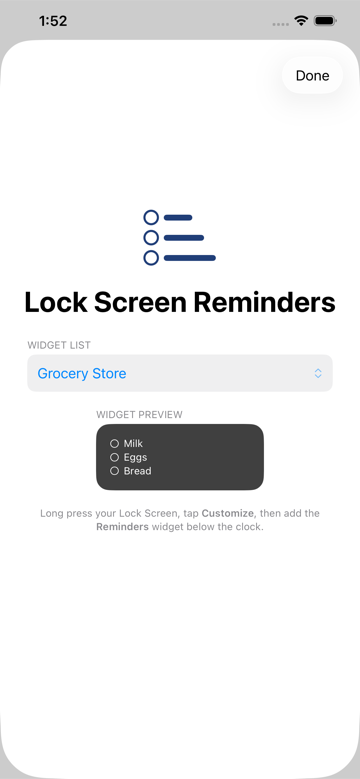
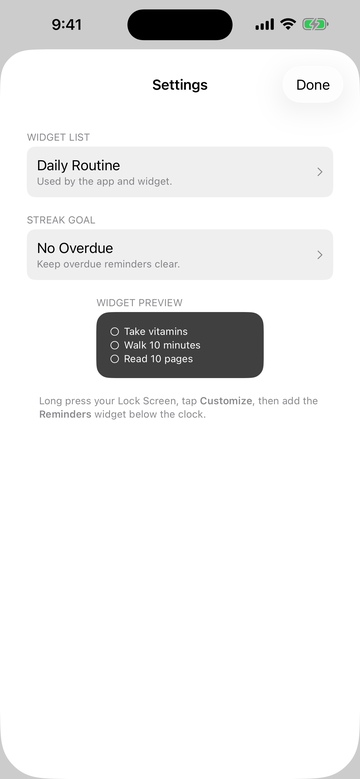
Update settings screen and screenshots

diff --git a/RemindersWidget/ReminderDetailView.swift b/RemindersWidget/ReminderDetailView.swift
@@ -40,7 +40,7 @@ struct ReminderDetailView: View {
         .onChange(of: streakState.mode) { _, _ in
             // Goal change in settings resets streak state in the store; re-evaluate against
             // the current list contents so the banner doesn't show a stale 0-day streak when
-            // the new mode trivially qualifies today (e.g. switched to Empty List on an
+            // the new mode trivially qualifies today (e.g. switched to Complete All on an
             // already-empty list).
             fetchReminders()
         }
@@ -111,7 +111,7 @@ struct ReminderDetailView: View {
         switch streakState.mode {
         case .noOverdue:
             // Today already implies "due today or overdue", so "all overdue" reads as redundant
-            // there. Phrase it the same as Empty List for the Today list.
+            // there. Phrase it the same as Complete All for the Today list.
             if listID == SelectedListStore.todayID {
                 return "Complete all reminders today."
             }

diff --git a/Shared/Streak.swift b/Shared/Streak.swift
@@ -14,7 +14,7 @@ enum StreakMode: String, CaseIterable, Identifiable {
         case .dailyProgress:
             return "Daily Progress"
         case .emptyList:
-            return "Empty List"
+            return "Complete All"
         }
     }
 
@@ -30,7 +30,7 @@ enum StreakMode: String, CaseIterable, Identifiable {
     }
 
     // The Today list is a synthetic cross-calendar view: list membership is implicit and
-    // can't be reconstructed for past days. The Daily Progress and Empty List modes both
+    // can't be reconstructed for past days. The Daily Progress and Complete All modes both
     // depend on per-day membership, so they're disabled for Today. No Overdue only depends
     // on each reminder's dueDate vs day boundary, which is well-defined cross-calendar.
     static func availableModes(forListID listID: String?) -> [StreakMode] {

diff --git a/RemindersWidget/ContentView.swift b/RemindersWidget/ContentView.swift
@@ -110,14 +110,6 @@ struct ContentView: View {
     private var settingsSheet: some View {
         NavigationStack {
             VStack(spacing: 24) {
-                Spacer()
-
-                ReminderListIcon()
-
-                Text("Lock Screen Reminders")
-                    .font(.largeTitle)
-                    .fontWeight(.bold)
-
                 Group {
                     switch authStatus {
                     case .fullAccess:
@@ -132,8 +124,10 @@ struct ContentView: View {
                 .padding(.horizontal, 32)
 
                 Spacer()
-                Spacer()
             }
+            .padding(.top, 24)
+            .navigationTitle("Settings")
+            .navigationBarTitleDisplayMode(.inline)
             .toolbar {
                 ToolbarItem(placement: .topBarTrailing) {
                     Button("Done") {

diff --git a/docs/SCREENSHOTS.md b/docs/SCREENSHOTS.md
@@ -1,0 +1,186 @@
+# Screenshot Workflow
+
+Use this when refreshing the screenshots in `docs/`. The full-size screenshots should come from Simulator captures, and the thumbnail files should be generated from those full-size PNGs.
+
+## Screenshot Set
+
+| File | What it shows |
+| --- | --- |
+| `screenshot-lock-screen-6.5.png` | iPhone Lock Screen with the widget |
+| `screenshot-list-view-6.5.png` | iPhone app list view |
+| `screenshot-list-selection-6.5.png` | iPhone settings sheet |
+| `screenshot-lock-screen-ipad-13.png` | iPad Lock Screen with the widget |
+| `screenshot-list-view-ipad-13.png` | iPad app list view |
+| `screenshot-list-selection-ipad-13.png` | iPad settings sheet |
+| `screenshot-*-thumb.png` | Website thumbnails generated from the iPhone full-size screenshots |
+
+The `6.5` filenames are historical. Keep the filenames stable unless the website code changes too.
+
+## Sample Data
+
+Use habit-style reminders so the streak feature makes sense:
+
+- List: `Daily Routine`
+- Reminders:
+  - `Take vitamins`
+  - `Walk 10 minutes`
+  - `Read 10 pages`
+- Streak goal: `No Overdue`
+- Screenshot streak state: `7-day streak`, best `12 days`
+
+## Setup
+
+Use Xcode's developer directory explicitly if this shell points at Command Line Tools:
+
+```bash
+export DEVELOPER_DIR=/Applications/Xcode.app/Contents/Developer
+xcodegen generate
+```
+
+Use an iPhone Plus/Pro Max simulator for the phone screenshots and an iPad Pro 13-inch simulator for the iPad screenshots. Current good choices are:
+
+- `iPhone 16 Plus`
+- `iPad Pro 13-inch (M5)`
+
+Find exact device IDs with:
+
+```bash
+xcrun simctl list devices available
+```
+
+Set variables for the rest of the commands:
+
+```bash
+PHONE="<iPhone simulator UUID>"
+IPAD="<iPad simulator UUID>"
+APP_ID="com.brianpattison.RemindersWidget"
+```
+
+Boot the devices, grant Reminders access, and make the status bars deterministic:
+
+```bash
+xcrun simctl boot "$PHONE" || true
+xcrun simctl boot "$IPAD" || true
+xcrun simctl privacy "$PHONE" grant reminders "$APP_ID"
+xcrun simctl privacy "$IPAD" grant reminders "$APP_ID"
+
+xcrun simctl status_bar "$PHONE" override \
+  --time "2026-04-30T09:41:00-05:00" \
+  --batteryState charged --batteryLevel 100 \
+  --wifiBars 3 --cellularBars 4
+
+xcrun simctl status_bar "$IPAD" override \
+  --time "2026-04-30T09:41:00-05:00" \
+  --batteryState charged --batteryLevel 100 \
+  --wifiBars 3 --cellularBars 4
+```
+
+Build and install the app:
+
+```bash
+DD=/tmp/RemindersWidgetScreenshotsDD
+xcodebuild build -scheme RemindersWidget -destination "id=$PHONE" -derivedDataPath "$DD" -quiet
+APP="$DD/Build/Products/Debug-iphonesimulator/RemindersWidget.app"
+xcrun simctl install "$PHONE" "$APP"
+xcrun simctl install "$IPAD" "$APP"
+```
+
+## Seed The Simulator
+
+The simplest reliable path is manual setup in Simulator:
+
+1. Open Reminders in each simulator.
+2. Create the `Daily Routine` list.
+3. Add the three reminders listed above.
+4. Launch `Lock Screen`.
+5. In the app settings sheet, choose `Daily Routine`.
+6. Leave the streak goal as `No Overdue`.
+
+After selecting the list, set the streak defaults so the app shows `7-day streak` on launch. Run this once per device:
+
+```bash
+DEVICE="$PHONE" # then repeat with DEVICE="$IPAD"
+GROUP=$(xcrun simctl get_app_container "$DEVICE" "$APP_ID" groups | awk '/group.com.brianpattison.RemindersWidget/{print $2}')
+PREF="$GROUP/Library/Preferences/group.com.brianpattison.RemindersWidget.plist"
+LIST_ID=$(/usr/libexec/PlistBuddy -c "Print :selectedListID" "$PREF")
+YESTERDAY=$(date -v-1d -v0H -v0M -v0S +%s)
+
+/usr/libexec/PlistBuddy -c "Set :streakMode noOverdue" "$PREF" 2>/dev/null || /usr/libexec/PlistBuddy -c "Add :streakMode string noOverdue" "$PREF"
+/usr/libexec/PlistBuddy -c "Set :streakListID $LIST_ID" "$PREF" 2>/dev/null || /usr/libexec/PlistBuddy -c "Add :streakListID string $LIST_ID" "$PREF"
+/usr/libexec/PlistBuddy -c "Set :streakCurrentCount 6" "$PREF" 2>/dev/null || /usr/libexec/PlistBuddy -c "Add :streakCurrentCount integer 6" "$PREF"
+/usr/libexec/PlistBuddy -c "Set :streakBestCount 12" "$PREF" 2>/dev/null || /usr/libexec/PlistBuddy -c "Add :streakBestCount integer 12" "$PREF"
+/usr/libexec/PlistBuddy -c "Set :streakLastQualifiedDay $YESTERDAY" "$PREF" 2>/dev/null || /usr/libexec/PlistBuddy -c "Add :streakLastQualifiedDay real $YESTERDAY" "$PREF"
+```
+
+The app should extend the `6` stored count to `7` when it launches and sees no overdue reminders.
+
+## Capture App Screens
+
+Launch normally for the list view:
+
+```bash
+xcrun simctl launch --terminate-running-process "$PHONE" "$APP_ID"
+sleep 2
+xcrun simctl io "$PHONE" screenshot docs/screenshot-list-view-6.5.png
+
+xcrun simctl launch --terminate-running-process "$IPAD" "$APP_ID"
+sleep 2
+xcrun simctl io "$IPAD" screenshot docs/screenshot-list-view-ipad-13.png
+```
+
+For the settings screenshots, open the app and tap the gear button, then capture:
+
+```bash
+xcrun simctl io "$PHONE" screenshot docs/screenshot-list-selection-6.5.png
+xcrun simctl io "$IPAD" screenshot docs/screenshot-list-selection-ipad-13.png
+```
+
+## Capture Lock Screen Screens
+
+Use the same seeded device and selected list.
+
+1. Lock the simulator from Simulator's toolbar or Device menu.
+2. Long-press the Lock Screen.
+3. Tap `Customize`, choose the Lock Screen, and add the Reminders widget below the clock.
+4. Make sure the widget shows the three `Daily Routine` reminders.
+5. Capture:
+
+```bash
+xcrun simctl io "$PHONE" screenshot docs/screenshot-lock-screen-6.5.png
+xcrun simctl io "$IPAD" screenshot docs/screenshot-lock-screen-ipad-13.png
+```
+
+If the widget shows stale data, open the app, reselect the list, wait a few seconds, and return to the Lock Screen.
+
+## Generate Thumbnails
+
+Generate thumbnails only from the iPhone full-size images:
+
+```bash
+python3 - <<'PY'
+from PIL import Image
+
+pairs = [
+    ("docs/screenshot-lock-screen-6.5.png", "docs/screenshot-lock-screen-thumb.png"),
+    ("docs/screenshot-list-view-6.5.png", "docs/screenshot-list-view-thumb.png"),
+    ("docs/screenshot-list-selection-6.5.png", "docs/screenshot-list-selection-thumb.png"),
+]
+
+for src, dst in pairs:
+    image = Image.open(src).convert("RGB")
+    image = image.resize((360, 779), Image.Resampling.LANCZOS)
+    image.save(dst, optimize=True)
+PY
+```
+
+## Verify
+
+Check dimensions and build before finishing:
+
+```bash
+sips -g pixelWidth -g pixelHeight docs/*.png
+xcodebuild build -scheme RemindersWidget -destination "id=$PHONE" -quiet
+git status --short
+```
+
+Expected thumbnail size is `360 x 779`. The iPad screenshots should be `2064 x 2752`. Phone screenshot dimensions may vary by the simulator used; keep them as direct Simulator output and do not stretch them.

diff --git a/docs/app-store-submission.md b/docs/app-store-submission.md
@@ -42,7 +42,7 @@ WHAT YOU GET
 - A Lock Screen widget that displays 3 reminders instead of 2.
 - Choose which Reminders list to show from inside the app.
 - View and complete reminders from the selected list in a focused native app.
-- Track a configurable streak: No Overdue, Daily Progress, or Empty List.
+- Track a configurable streak: No Overdue, Daily Progress, or Complete All.
 - Tap the widget to open the Reminders app -- no accidental completions.
 - Clean design that matches the native iOS look.
 - Reminders are sorted by due date, then by creation date, so the most urgent items show first.
@@ -149,7 +149,7 @@ Since this is a Lock Screen widget app with a useful host app, screenshots shoul
 
 **Screenshot 1 -- The Widget in Action**
 - Show an iPhone Lock Screen with the Reminders Widget visible in the widget area below the clock.
-- The widget should display 3 reminders from a realistic-looking list (e.g., "Grocery Store" with items like "Milk," "Eggs," "Bread").
+- The widget should display 3 reminders from a realistic-looking habit list (e.g., "Daily Routine" with items like "Take vitamins," "Walk 10 minutes," and "Read 10 pages").
 - This is your hero screenshot. It should immediately communicate what the app does.
 - Consider adding a brief overlay caption: "See 3 reminders on your Lock Screen"
 
@@ -309,7 +309,7 @@ You will come back to this after uploading a build (Step 7).
    This app provides a native selected-list companion app and Lock Screen widget for Reminders. To test:
    1. Open the app and grant Reminders access.
    2. Choose a Reminders list in the app.
-   3. View the selected list in the app, tap a reminder circle to complete it, and use Settings to choose a streak goal: No Overdue, Daily Progress, or Empty List.
+   3. View the selected list in the app, tap a reminder circle to complete it, and use Settings to choose a streak goal: No Overdue, Daily Progress, or Complete All.
    4. Go to the Lock Screen, long-press, tap Customize, choose Lock Screen, tap Add Widgets.
    5. Find "Reminders Widget" in the widget list and add the rectangular widget.
    The widget will display 3 reminders from the list selected in the app. Tapping the widget opens the Reminders app.

diff --git a/AGENTS.md b/AGENTS.md
@@ -40,3 +40,7 @@ Two targets in one Xcode project:
 # Generate the app icon (requires numpy and Pillow)
 python3 generate_icon.py AppIcon.png
 ```
+
+## Docs Screenshots
+
+When updating `docs/screenshot-*.png`, follow the detailed workflow in `docs/SCREENSHOTS.md`. It documents the sample Reminders data, Simulator setup, capture filenames, dimension checks, and thumbnail generation command.
